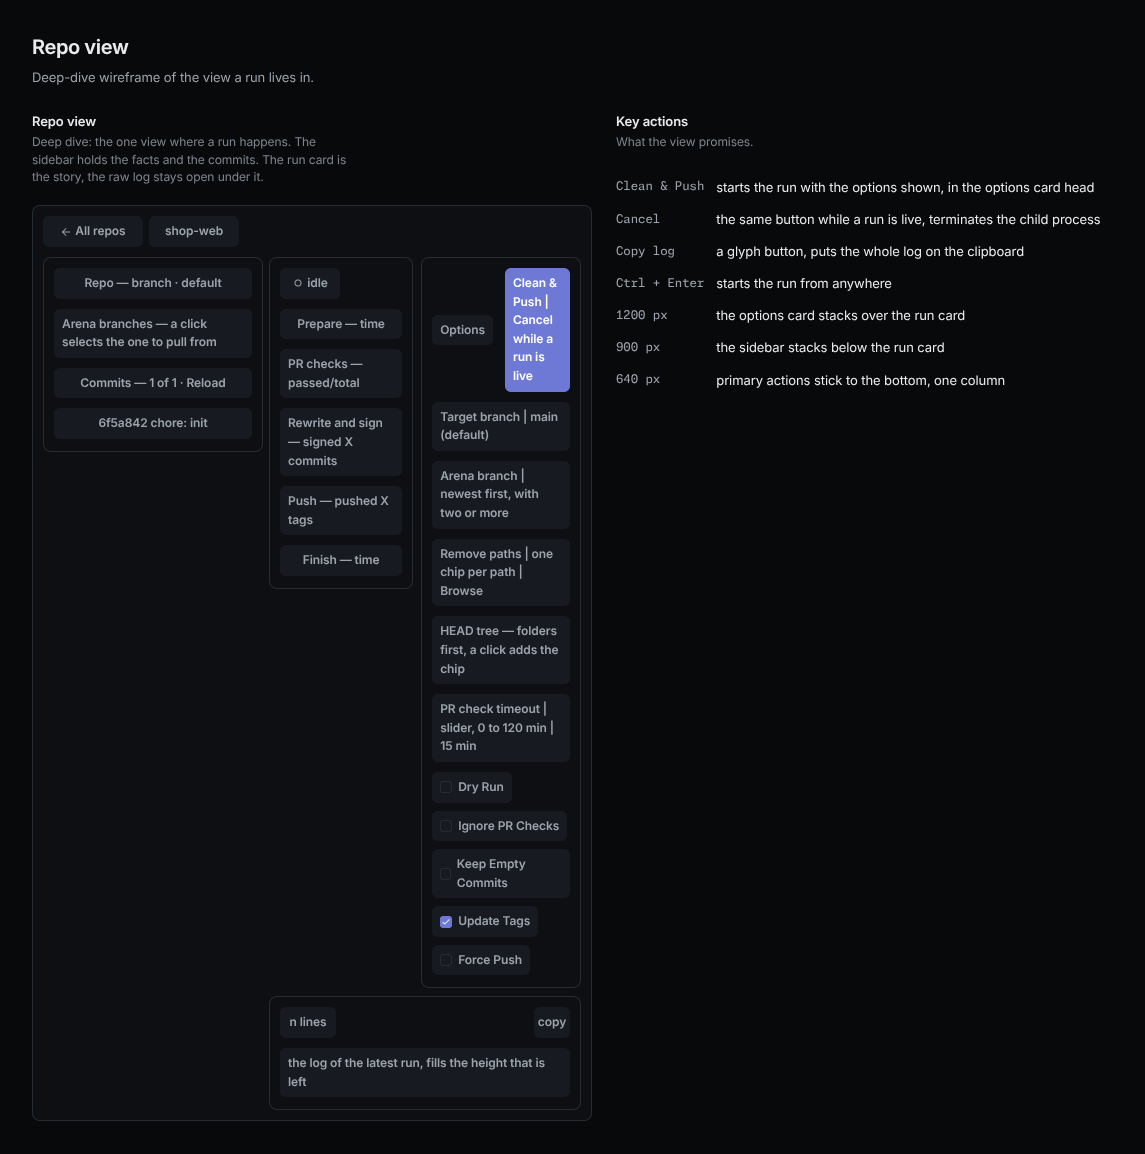
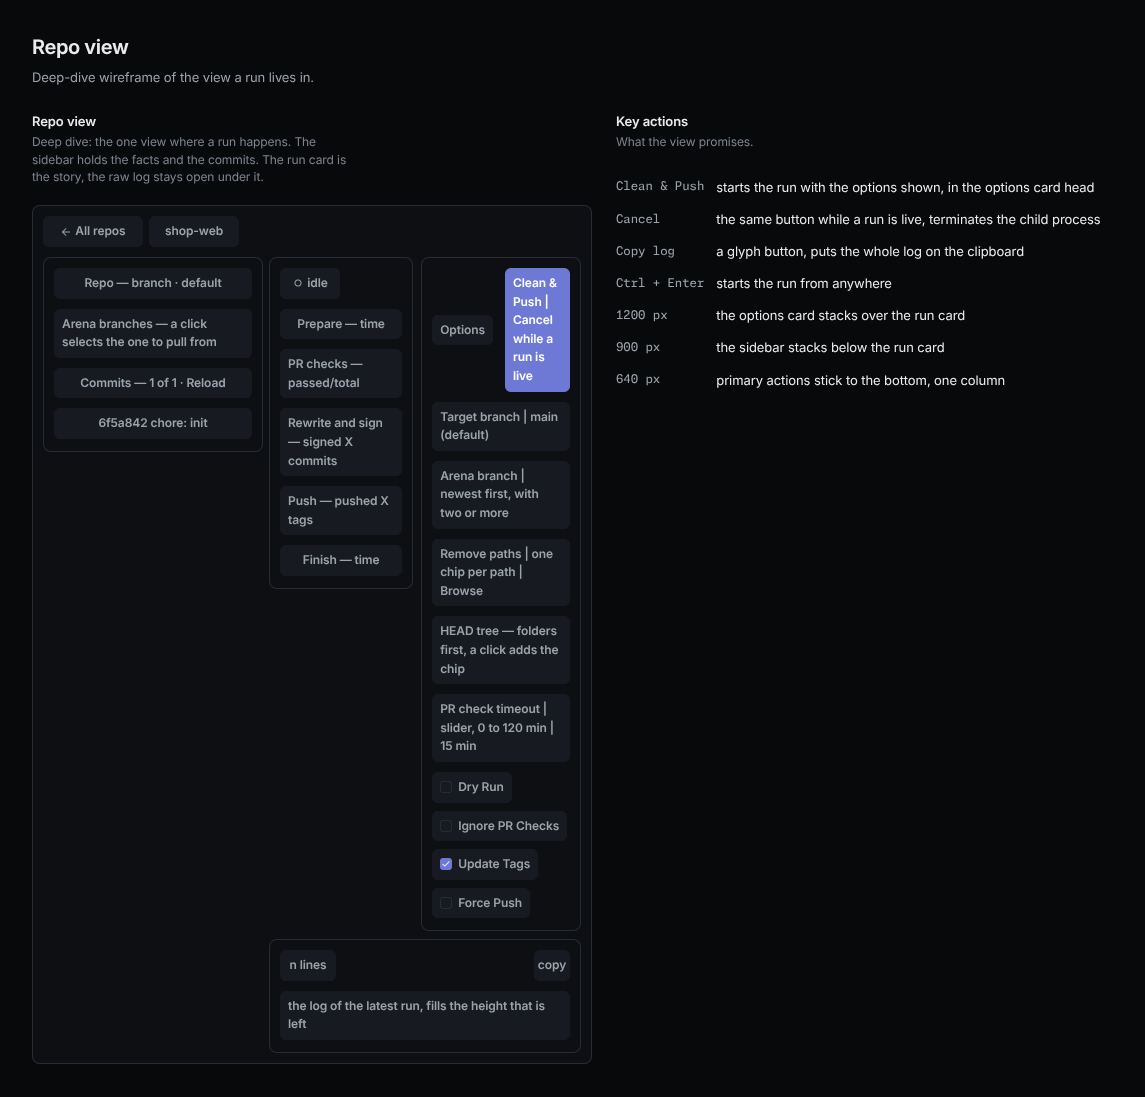
feat!: drop the keep empty commits option, empty commits always go

diff --git a/ui/static/index.html b/ui/static/index.html
@@ -794,7 +794,6 @@
             <div class="opt checks" id="checks">
               <label class="check" title="Prints every step it would take and writes nothing."><input type="checkbox" data-opt="dry_run">Dry Run</label>
               <label class="check" title="Publishes even when the pull request still has running or failing checks."><input type="checkbox" data-opt="skip_pr_check">Ignore PR Checks</label>
-              <label class="check" title="Keeps commits that would be empty once the removed paths are gone."><input type="checkbox" data-opt="keep_empty">Keep Empty Commits</label>
               <label class="check" title="Moves the tags to the rewritten commits. Unchecked, they stay on the old ones."><input type="checkbox" data-opt="update_tags" checked>Update Tags</label>
               <label class="check danger" title="Pushes even when the push would drop commits that are on the default branch."><input type="checkbox" data-opt="force">Force Push</label>
             </div>
@@ -864,7 +863,7 @@
   const state = {
     repos: [],
     repo: null,
-    opts: { dry_run: false, skip_pr_check: false, keep_empty: false, no_tags: false, force: false },
+    opts: { dry_run: false, skip_pr_check: false, no_tags: false, force: false },
     paths: [],
     branch: "",
     arena: "",
@@ -1411,7 +1410,6 @@
       action: "run",
       paths: state.paths,
       dry_run: state.opts.dry_run,
-      keep_empty: state.opts.keep_empty,
       branch: state.branch || "",
       arena: state.arena || "",
       force: state.opts.force,
@@ -1435,7 +1433,6 @@
     if (state.branch) parts.push("--branch", state.branch);
     if (state.arena) parts.push("--arena", state.arena);
     for (const p of state.paths) parts.push("--path", p);
-    if (body.keep_empty) parts.push("--keep-empty");
     if (body.skip_pr_check) parts.push("--skip-pr-check");
     if (body.no_tags) parts.push("--no-tags");
     if (body.force) parts.push("--force");

diff --git a/arena-cleanup.py b/arena-cleanup.py
@@ -18,7 +18,7 @@ ui/server.py::build_argv is the only code that constructs it.
 
 Flags: -n dry run, -v verbose, -b/--branch, -d/--delete-branch,
 -k/--skip-pr-check, -t/--check-timeout, -i/--check-interval, -c/--check (strip),
--p/--path, -E/--keep-empty (run, strip), -T/--no-tags (run).
+-p/--path (run, strip), -T/--no-tags (run).
 
 Everything else is a per-machine setting, not a per-run choice. The identity
 is `git config user.name` and `user.email`. The claim rules are the global git
@@ -44,7 +44,7 @@ from typing import Any
 
 # the one version of this file. pyproject.toml carries the same number for the
 # web app, and tests/test_cli.py keeps the two equal.
-__version__ = "0.2.5"
+__version__ = "0.3.0"
 PROG = "arena-cleanup"
 
 # =============================================================================
@@ -316,7 +316,6 @@ class Settings:
     self.claim_names = claim_rules("arena.claim-name") or _split(CLAIM_NAMES)
     self.sign = SIGN_COMMITS
     self.paths = list(getattr(args, "paths", None) or [])
-    self.keep_empty = bool(getattr(args, "keep_empty", False))
     self.no_tags = bool(getattr(args, "no_tags", False))
     self.dry_run = bool(args.dry_run)
     self.on_divergence = getattr(args, "on_divergence", "ask")
@@ -1225,10 +1224,9 @@ def filter_paths(log: Log, cfg: Settings, *, apply: bool) -> PathStats:
   therefore only restores the remotes and re-fetches, leaving
   `origin/<default>` resolvable for the push.
 
-  Commits that only touched the removed paths become empty and go -
-  unless -E/--keep-empty asks for them to stay. Messages stay byte for
-  byte (--preserve-commit-hashes, --preserve-commit-encoding): this stage is
-  about files, not wording.
+  Commits that only touched the removed paths become empty and go. Messages
+  stay byte for byte (--preserve-commit-hashes, --preserve-commit-encoding):
+  this stage is about files, not wording.
   """
   stats = PathStats()
   stats.paths = [_normalize_path(p) for p in cfg.paths]
@@ -1258,8 +1256,6 @@ def filter_paths(log: Log, cfg: Settings, *, apply: bool) -> PathStats:
   args: list[str] = ["filter-repo", "--force", "--invert-paths"]
   for path in stats.paths:
     args += ["--path", path]
-  if cfg.keep_empty:
-    args.append("--prune-empty=never")
   args += ["--preserve-commit-hashes", "--preserve-commit-encoding"]
 
   log.info(f"removing {listed} from every branch and tag")
@@ -1273,8 +1269,7 @@ def filter_paths(log: Log, cfg: Settings, *, apply: bool) -> PathStats:
   )
   if stats.pruned:
     log.info(
-      f"{len(stats.pruned)} commit(s) only touched those paths, so they are gone too "
-      "(pass -E to keep them)"
+      f"{len(stats.pruned)} commit(s) only touched those paths, so they are gone too"
     )
 
   if "origin" in git("remote", check=False).lines():
@@ -2434,7 +2429,6 @@ examples:
   arena-cleanup -p uploads          ...and drop uploads/ from every commit, then publish
   arena-cleanup strip -p notes/ -p TODO.md
                                     rewrite locally, removing two paths
-  arena-cleanup -p uploads -E       ...keeping commits that only touched uploads/
   arena-cleanup -p uploads -T       ...and leave tag positions on origin alone
 
 removing paths rewrites every branch and tag in the repo (that is what
@@ -2571,13 +2565,6 @@ def build_parser() -> argparse.ArgumentParser:
     help="remove PATH (file or directory) from every commit with git filter-repo; "
     "repeat for more than one",
   )
-  path_group.add_argument(
-    "-E",
-    "--keep-empty",
-    action="store_true",
-    default=argparse.SUPPRESS,
-    help="keep commits that only touched removed paths (default: drop them)",
-  )
 
   run_group.add_argument(
     "-T",
@@ -2612,8 +2599,8 @@ def main(argv: Sequence[str] | None = None) -> int:
   # flags that only mean something for one command
   if args.command != "strip" and _given(args, "check"):
     parser.error("--check/-c only applies to `strip`")
-  if args.command == "doctor" and (_given(args, "paths") or _given(args, "keep_empty")):
-    parser.error("--path/-p and --keep-empty/-E only apply to `run` and `strip`")
+  if args.command == "doctor" and _given(args, "paths"):
+    parser.error("--path/-p only applies to `run` and `strip`")
   if args.command != "run":
     for flag in (
       "branch",
@@ -2645,7 +2632,6 @@ def main(argv: Sequence[str] | None = None) -> int:
         )
 
   args.paths = getattr(args, "paths", None) or []
-  args.keep_empty = getattr(args, "keep_empty", False)
   args.no_tags = getattr(args, "no_tags", False)
   args.check_timeout = getattr(args, "check_timeout", 900)
   args.check_interval = getattr(args, "check_interval", 1)

diff --git a/tests/test_engine.py b/tests/test_engine.py
@@ -468,7 +468,6 @@ LONG_FLAGS = (
   "--check",
   "--version",
   "--path",
-  "--keep-empty",
   "--no-tags",
   "--arena",
 )
@@ -484,7 +483,6 @@ SHORT_FLAGS = (
   "-c",
   "-V",
   "-p",
-  "-E",
   "-T",
 )
 USAGE_ERROR = 2
@@ -1074,21 +1072,11 @@ def test_path_removes_a_directory_from_history_and_tags_follow(world: World) -> 
     res.text
   )
 
-  # -E keeps a commit that only touched the removed path
-  world.git("checkout", "-q", "main")
-  world.git("reset", "-q", "--hard", "origin/main")
-  world.git("checkout", "-q", "-b", "arena/keep-empty", "main")
-  (world.work / "tmpdir").mkdir()
-  (world.work / "tmpdir" / "x.bin").write_text("x\n")
-  _commit_all(world, world.work, "chore: only tmpdir", OTHER_DEV)
-  (world.work / "tmpdir" / "y.bin").write_text("y\n")
-  _commit_all(world, world.work, "chore: only tmpdir again", OTHER_DEV)
-  keep_before = world.git("rev-list", "--count", "HEAD")
-  assert world.cleanup("strip", "-p", "tmpdir", "-E").rc == 0
-  assert world.git("rev-list", "--count", "HEAD") == keep_before
-  assert not any(p.startswith("tmpdir/") for p in _tree(world, world.work, "HEAD"))
-  world.git("checkout", "-q", "main")
-  world.git("branch", "-q", "-D", "arena/keep-empty")
+  # there is no way to keep a commit that only touched the removed path
+  res = world.cleanup("strip", "-p", "site/uploads", "-E")
+  assert res.rc == USAGE_ERROR
+  assert "unrecognized arguments: -E" in res.text, res.text
+  assert world.cleanup("strip", "-p", "site/uploads", "--keep-empty").rc == USAGE_ERROR
 
 
 @needs_filter_repo

diff --git a/tests/test_ui.py b/tests/test_ui.py
@@ -566,6 +566,7 @@ def test_the_argv_whitelist(ui: UI, ids: dict[str, str]) -> None:
   jobs = f"/api/repos/{ids['repo']}/jobs"
   assert ui.status("POST", jobs, {"action": "rm -rf /"}) == 400
   assert ui.status("POST", jobs, {"action": "run", "nope": 1}) == 400
+  assert ui.status("POST", jobs, {"action": "run", "keep_empty": True}) == 400
   assert ui.status("POST", jobs, {"action": "run", "branch": "--upload-pack=x"}) == 400
   assert ui.status("POST", jobs, {"action": "run", "paths": ["-x"]}) == 400
   assert ui.status("POST", jobs, {"action": "strip"}) == 400, "strip is CLI only"
@@ -824,6 +825,7 @@ def test_the_commit_list_and_the_page_shell(ui: UI, ids: dict[str, str]) -> None
   assert 'id="timeout" type="range"' in page and 'id="timeout-out"' in page
   assert 'data-opt="update_tags" checked' in page
   assert 'data-opt="keep_branch"' not in page, "no local arena branch survives a run"
+  assert 'data-opt="keep_empty"' not in page, "empty commits are always dropped"
   assert 'id="start-mobile"' in page
   assert not re.search(
     r'cmdpreview|id="cmdline"|id="emptystate"|oneclick-mobile|cmdswitch|data-cmd=', page

diff --git a/ui/server.py b/ui/server.py
@@ -1261,7 +1261,6 @@ def build_argv(body: dict[str, Any], repo: dict[str, Any]) -> list[str]:
     "action",
     "paths",
     "dry_run",
-    "keep_empty",
     "one_click",
     "branch",
     "arena",
@@ -1285,8 +1284,6 @@ def build_argv(body: dict[str, Any], repo: dict[str, Any]) -> list[str]:
     if "\0" in path or path.startswith("-"):
       raise BadRequest(f"invalid path {path!r}")
     argv += ["--path", path]
-  if body.get("keep_empty"):
-    argv.append("--keep-empty")
 
   branch = str(body.get("branch") or "").strip()
   if branch:

diff --git a/scripts/design_boards.py b/scripts/design_boards.py
@@ -346,7 +346,6 @@ def wireframe_board(_: dict[str, bytes]) -> str:
       for t, on in (
         ("Dry Run", False),
         ("Ignore PR Checks", False),
-        ("Keep Empty Commits", False),
         ("Update Tags", True),
         ("Force Push", False),
       )

diff --git a/docs/design.md b/docs/design.md
@@ -28,7 +28,7 @@ The one design record for the arena-cleanup web app. The sections follow the nem
 ## Screens and states
 
 - Dashboard: Reload button in the head, add bar, repo cards. Empty: a hint with the add command. Error: a banner above the cards. A card shows the branch. The repo name is a button that opens the repo, and a click on the card body does the same. The card itself has no role. Each arena row has two lines at every width: the branch name, then `↑ N` and the PR pill. `↑ N` is the net count, the commits that branch holds beyond `origin/<default>` minus the commits `origin/<default>` holds beyond it, with a tooltip. The chip hides below 1, so absorbed work and a default branch that moved on show no chip. No dot sits before the name or in the PR pill, the pill colour carries the state. The Remove X sits top right as a bare glyph. A red frame comes on hover, on press, and while armed.
-- Repo: a 320 px sidebar, then the run card left and the options card right, and the log card below both. The run card holds the status and the phase list. The log card holds the open log of the latest run and takes the height that is left, down to a 160 px floor. Both come back after a return to the view or a restart. The main column pins to the window like the sidebar, so only the log scrolls. The options card head carries the one run button. It reads Clean & Push while idle and Cancel while a run is live. Each option is one row: label, control, and a trailing action or readout. No hint texts. Dry Run, Ignore PR Checks, Keep Empty Commits, Update Tags (checked by default), and Force Push are checkboxes. PR check timeout is a slider with the number beside it. It snaps to 0, 5, 10, 15, 20, 30, 45, 60, 90, or 120 minutes. Target branch lists the default branch first and never an `arena/*` branch. Arena branch appears with two or more arena branches, newest tip first. Each option reads `branch · day`, and the full stamp sits in its title. The chosen one goes to the run as `--arena`. The sidebar holds the repo facts and the arena rows on top. The commit list fills the rest and scrolls on its own. Each row shows hash, subject, author, and date. Reload sits in its label. Each arena row shows the PR state and is a button that selects the branch to pull from. The page runs the full flow only. `strip` is a CLI command. Browse under Remove paths opens the HEAD tree of the clone, one level per request. A click on a row or its plus adds the chip. Log rows show the clock of the browser. Remove on a card arms on the first click and deletes the URL clone on the second. States: idle, running, done, failed, cancelled. A managed clone goes back to origin before every run. The server fetches, checks out the default branch, resets hard, and drops local `arena/*` copies.
+- Repo: a 320 px sidebar, then the run card left and the options card right, and the log card below both. The run card holds the status and the phase list. The log card holds the open log of the latest run and takes the height that is left, down to a 160 px floor. Both come back after a return to the view or a restart. The main column pins to the window like the sidebar, so only the log scrolls. The options card head carries the one run button. It reads Clean & Push while idle and Cancel while a run is live. Each option is one row: label, control, and a trailing action or readout. No hint texts. Dry Run, Ignore PR Checks, Update Tags (checked by default), and Force Push are checkboxes. PR check timeout is a slider with the number beside it. It snaps to 0, 5, 10, 15, 20, 30, 45, 60, 90, or 120 minutes. Target branch lists the default branch first and never an `arena/*` branch. Arena branch appears with two or more arena branches, newest tip first. Each option reads `branch · day`, and the full stamp sits in its title. The chosen one goes to the run as `--arena`. The sidebar holds the repo facts and the arena rows on top. The commit list fills the rest and scrolls on its own. Each row shows hash, subject, author, and date. Reload sits in its label. Each arena row shows the PR state and is a button that selects the branch to pull from. The page runs the full flow only. `strip` is a CLI command. Browse under Remove paths opens the HEAD tree of the clone, one level per request. A click on a row or its plus adds the chip. Log rows show the clock of the browser. Remove on a card arms on the first click and deletes the URL clone on the second. States: idle, running, done, failed, cancelled. A managed clone goes back to origin before every run. The server fetches, checks out the default branch, resets hard, and drops local `arena/*` copies.
 - Settings: Identity (name, email, Save), GitHub sign-in and credential helper, signing cards, Claimed commits (two chip lists, Save). Below: About. Signing cards: gpg banner when gpg is missing, key list, create card, GitHub key steps. Disabled: Create key while gpg is missing. Error: the banner names the failed check. Each card loads on its own.
 - Offline: the service worker serves the shell. Data requests fail with the normal error banner.
 - Loading and permission states: not run as separate checks.

diff --git a/README.md b/README.md
@@ -98,8 +98,8 @@ flags, and `arena-cleanup doctor` checks the setup.
 3. About sits below the settings.
 4. **Clean & Push** runs the pipeline and streams the log. A click on the
    card shows the repo view first: target branch, paths to remove, the
-   check timeout, and the options (dry run, skip the PR gate, keep empty
-   commits, leave tags alone, keep the branch, force the push).
+   check timeout, and the options (dry run, skip the PR gate, leave tags
+   alone, keep the branch, force the push).
 
 Signed out, every card reads **checks unavailable** instead of **no PR**. The
 run writes a backup bundle before each rewrite stage, and **Cancel** stops a
@@ -107,8 +107,8 @@ run in flight. Exit codes: `0` success, `1` error or cancelled, `2` usage, `7`
 a check found commits to rewrite, `130` interrupted.
 
 Path removal is `git-filter-repo --invert-paths` over every ref. Commits left
-empty go unless **Keep empty commits** is on. Signatures do not
-survive it, so the publish pass re-signs the branch it pushes.
+empty go. Signatures do not survive it, so the publish pass re-signs the branch
+it pushes.
 
 Tags that pointed into rewritten commits move with them, force-pushed with a
 lease. **Don't move tags** leaves them and warns.

diff --git a/CHANGELOG.md b/CHANGELOG.md
@@ -5,6 +5,13 @@ This file documents all notable changes to this project.
 The format follows [Keep a Changelog](https://keepachangelog.com/en/1.1.0/),
 and the project uses [Semantic Versioning](https://semver.org/spec/v2.0.0.html).
 
+## [0.3.0] - 2026-10-23
+
+### Removed
+
+- The Keep Empty Commits option, its `keep_empty` run field, and the CLI flag
+  `-E/--keep-empty`. Commits that only touched removed paths are always dropped.
+
 ## [0.2.5] - 2026-10-23
 
 ### Changed
